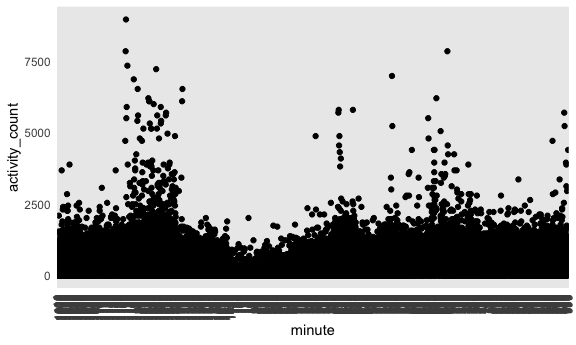
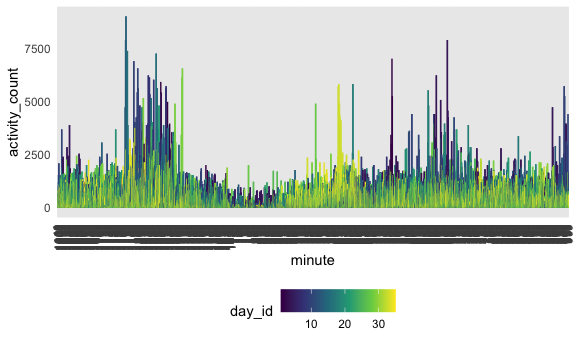
start part3

diff --git a/p8105_hw3_des2190.md b/p8105_hw3_des2190.md
@@ -224,8 +224,8 @@ in words any patterns or conclusions you can make based on this graph.
 
 ``` r
 accel_df %>%
-ggplot(aes(x = minute, y = activity_count)) + 
-    geom_point() + 
+ggplot(aes(x = minute, y = activity_count, color = day_id)) + 
+    geom_line() + 
     theme(axis.text.x = element_text(angle = 90, vjust = 0.5, hjust = 1))
 ```
 
